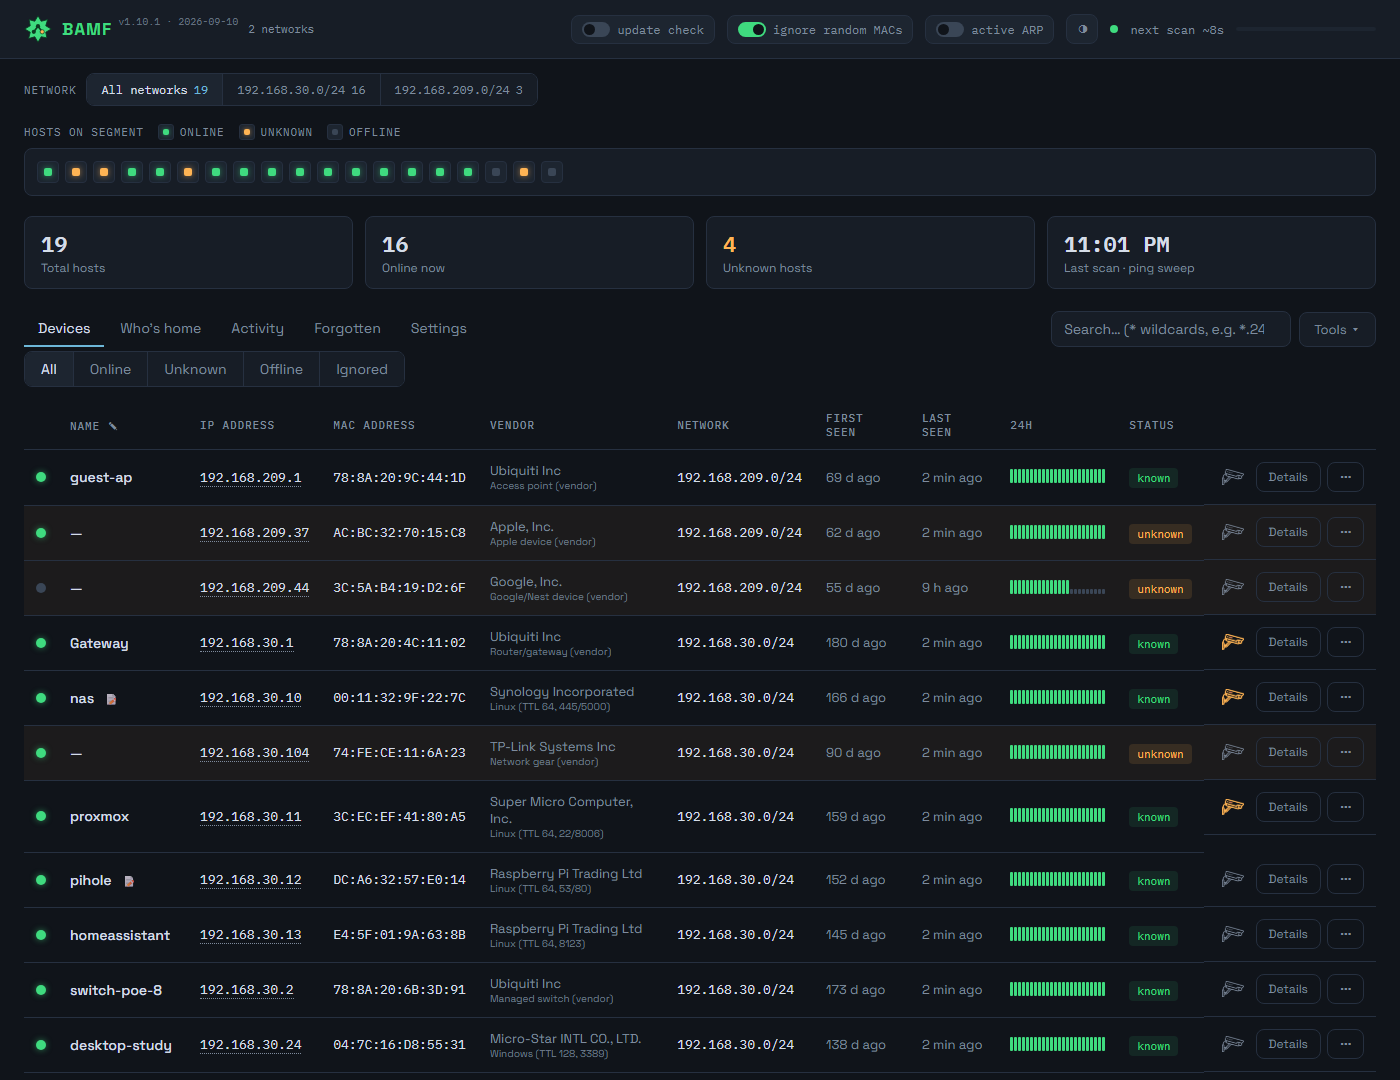
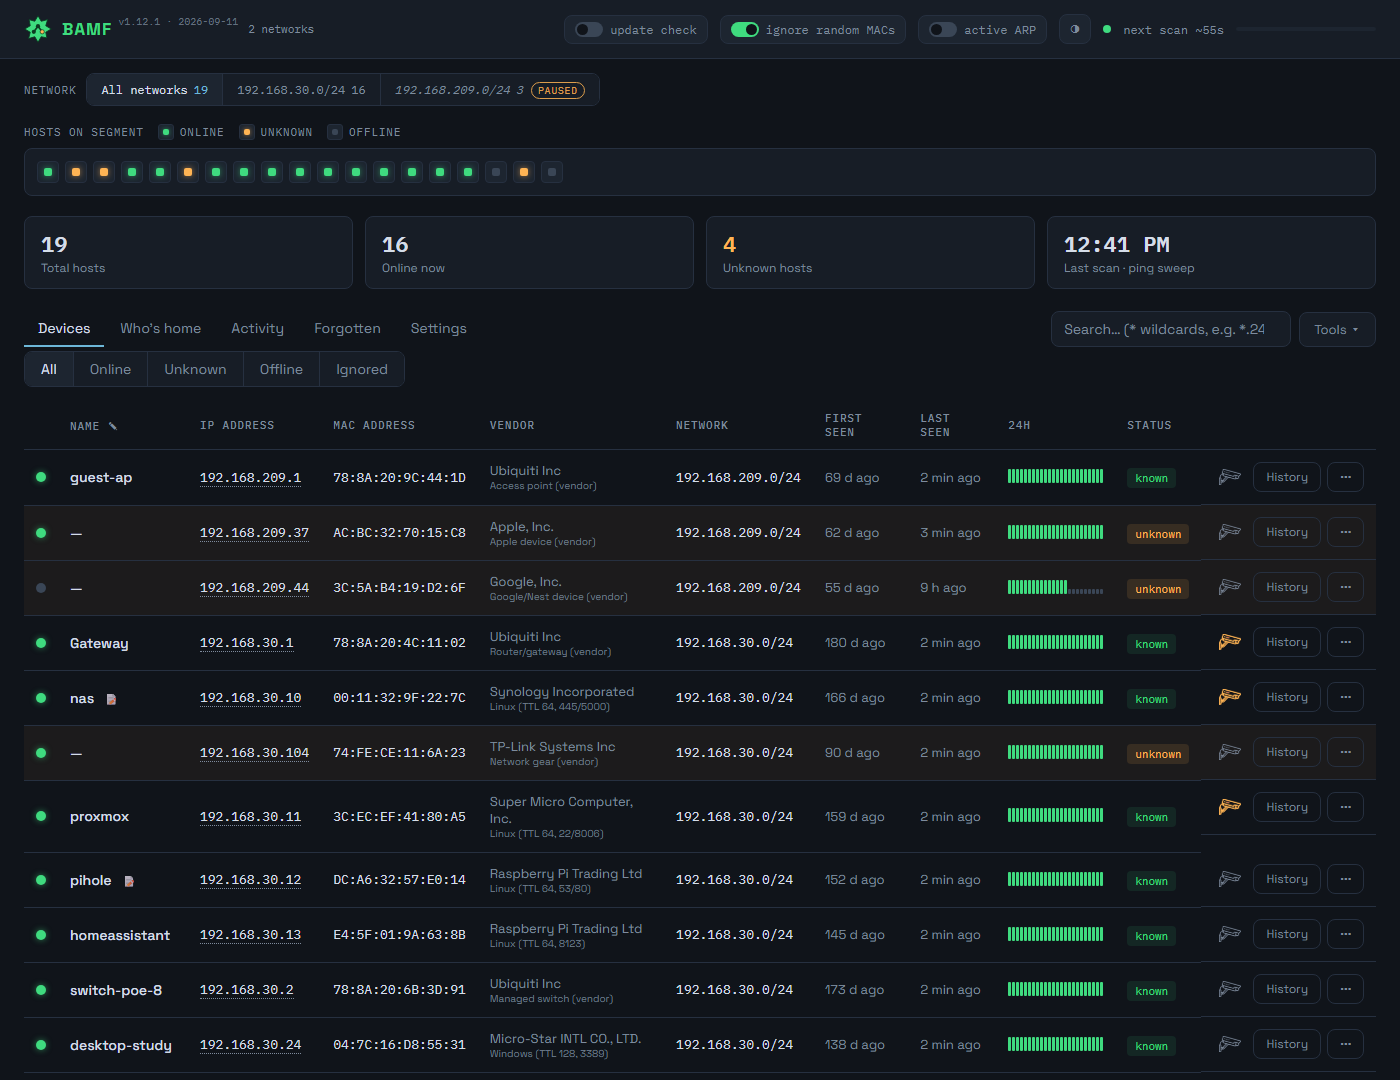
Mark paused networks, apply the theme before first paint, refresh the screenshots (#53)
Three small things a visitor would notice.

A paused network's tab on the Devices view looked identical to a scanning
one, so its devices never changing read as a fault. The tab now carries a
"paused" pill and a tooltip saying it was switched off in Settings and that
devices keep their last known state.

Every load flashed dark for a moment before the saved theme applied, because
the restore ran at the end of the main script. A small inline script in the
head now sets the attribute from storage before anything paints, and lets
the later, validating restore correct anything odd.

The README screenshots were captured on 1.10.1 and showed a Details button
and a Networks card with no switches. Recaptured on 1.12.1 from the same
invented demo data, with the guest VLAN paused so both the switch and the
tab marker are visible.

Verified in a browser: the paused network's tab has the marker and tooltip
while the active one does not; the head script is the first script in the
document and the stored theme was applied on load; a bogus stored id was
ignored in favour of the fallback. Both script blocks parse with node
--check.

diff --git a/BAMF/wwwroot/index.html b/BAMF/wwwroot/index.html
@@ -5,6 +5,18 @@
 <meta name="viewport" content="width=device-width, initial-scale=1.0">
 <title>BAMF — Basic ARP Monitoring Framework</title>
 <link rel="icon" type="image/svg+xml" href="/bamf-icon.svg">
+<!-- Apply the saved theme before anything paints. The full restore at the end
+     of the main script validates against the theme list; this only has to be
+     early, so it sets the attribute from storage and lets that later pass
+     correct anything odd. Without it every load flashes dark first. -->
+<script>
+(function () {
+  var t = null;
+  try { t = localStorage.getItem("bamf-theme"); } catch (e) {}
+  if (!t) { try { if (window.name && window.name.indexOf("bamf-theme:") === 0) t = window.name.slice(11); } catch (e) {} }
+  if (t && /^[a-z0-9-]{1,32}$/.test(t)) document.documentElement.setAttribute("data-theme", t);
+})();
+</script>
 <!-- Fonts are served from this machine, not a CDN: the dashboard often runs on
      networks with no internet, and it shouldn't report visitors to a third party. -->
 <link href="fonts.css" rel="stylesheet">
@@ -240,6 +252,12 @@
   .nettab.active { background: var(--panel-2); color: var(--text); }
   .nettab .cnt { color: var(--text-dim); margin-left: 6px; }
   .nettab.active .cnt { color: var(--focus); }
+  .nettab.paused { color: var(--text-dim); font-style: italic; }
+  .nettab .paused-tag {
+    margin-left: 8px; padding: 1px 6px; border-radius: 999px; font-style: normal;
+    font-size: 10px; letter-spacing: .06em; text-transform: uppercase;
+    color: var(--led-warn); border: 1px solid var(--led-warn); opacity: .85;
+  }
   .nettab:focus-visible { outline: 2px solid var(--focus); outline-offset: -2px; }
 
   .portstrip-wrap { padding: 18px 24px 6px; }
@@ -1347,9 +1365,14 @@ function renderNetTabs() {
   wrap.innerHTML = "";
   const mk = (value, label, count) => {
     const b = document.createElement("button");
-    b.className = "nettab" + (network === value ? " active" : "");
-    if (scanModes[value]) b.title = "scanned via " + scanModes[value];
-    b.innerHTML = `${esc(label)}<span class="cnt">${count}</span>`;
+    const paused = scanModes[value] === "paused";
+    b.className = "nettab" + (network === value ? " active" : "") + (paused ? " paused" : "");
+    // A paused network's devices never change, which looks like a fault unless
+    // the tab says why. Switched off in Settings; the tab itself is untouched.
+    if (paused) b.title = "Paused in Settings - not being scanned, devices keep their last known state";
+    else if (scanModes[value]) b.title = "scanned via " + scanModes[value];
+    b.innerHTML = `${esc(label)}<span class="cnt">${count}</span>` +
+      (paused ? `<span class="paused-tag">paused</span>` : "");
     b.onclick = () => { network = value; render(); };
     wrap.appendChild(b);
   };

diff --git a/README.md b/README.md
@@ -81,7 +81,7 @@ optional daily update check you have to switch on, and your own webhook.
 
 ### Tune it without touching the server
 
-![The Settings tab: scan interval, probe concurrency, history retention, and a scan interval per network](docs/settings.png)
+![The Settings tab: scan interval, probe concurrency, history retention, and an on/off switch and scan interval per network](docs/settings.png)
 
 Scan cadence, probe concurrency and history retention are editable from the
 dashboard and applied on the next scan — no restart, no editing a file over SSH.
